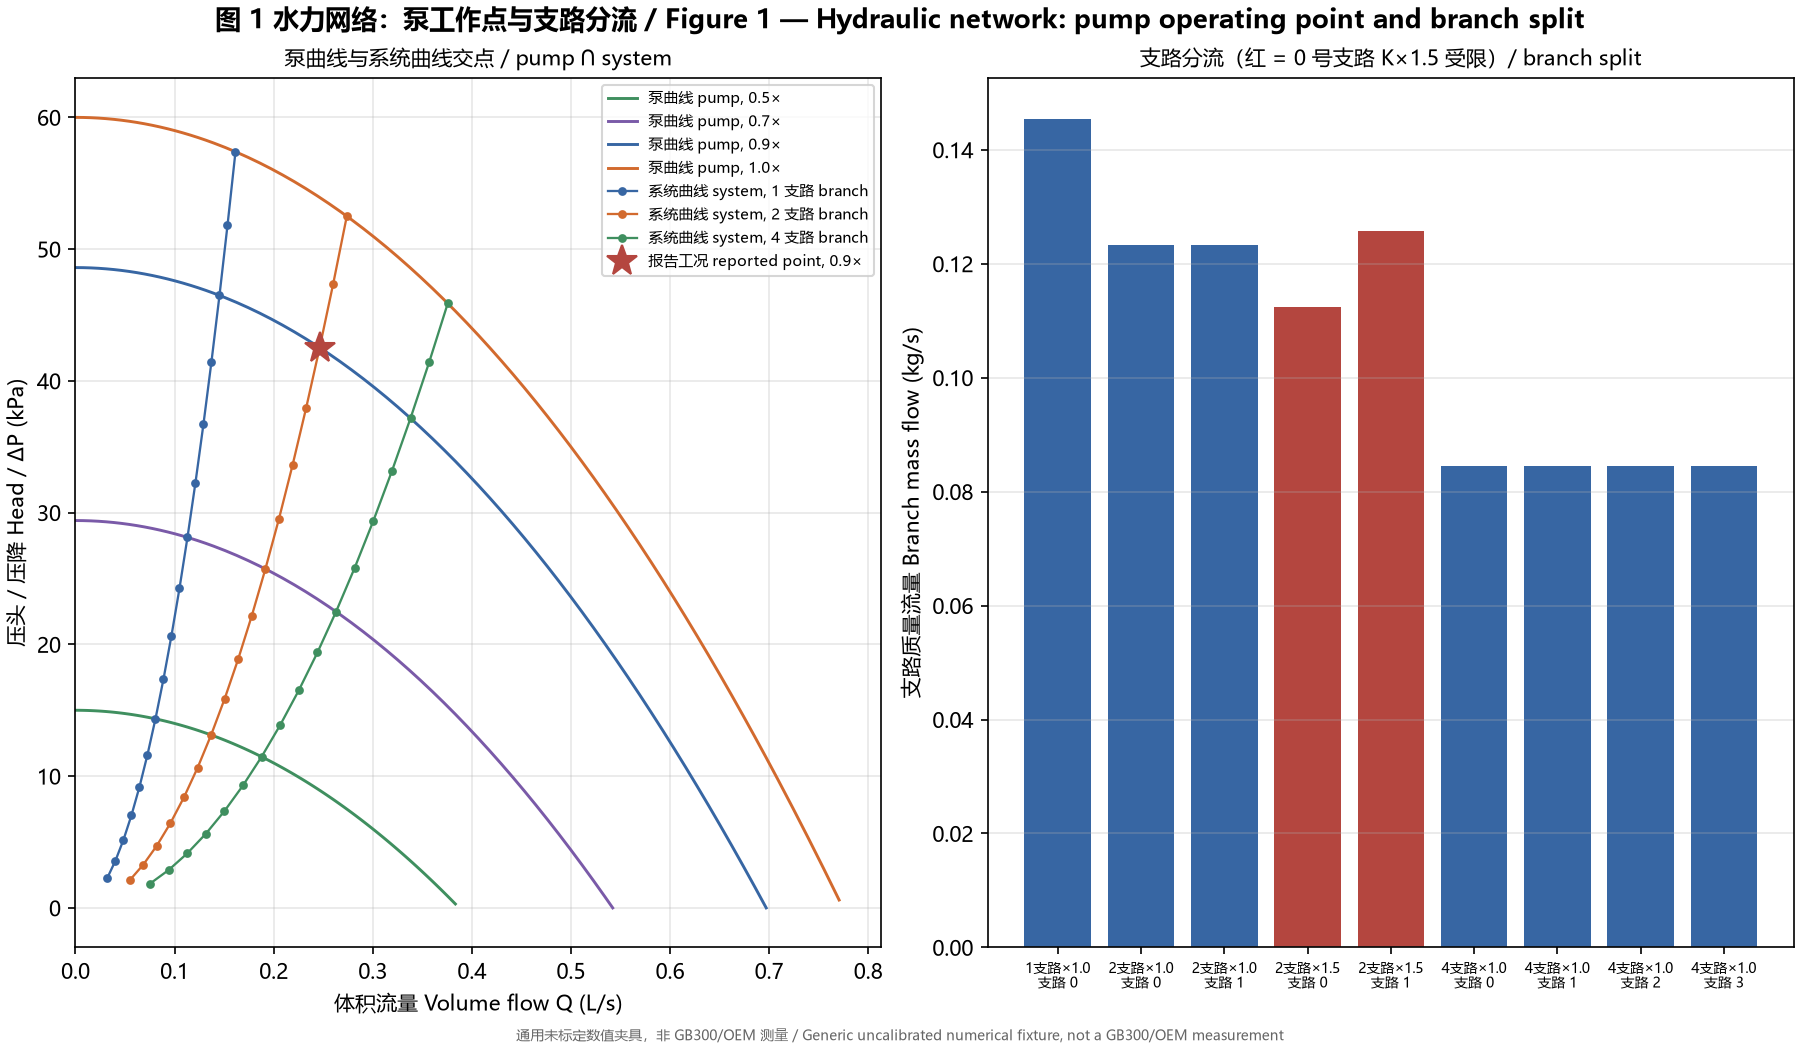
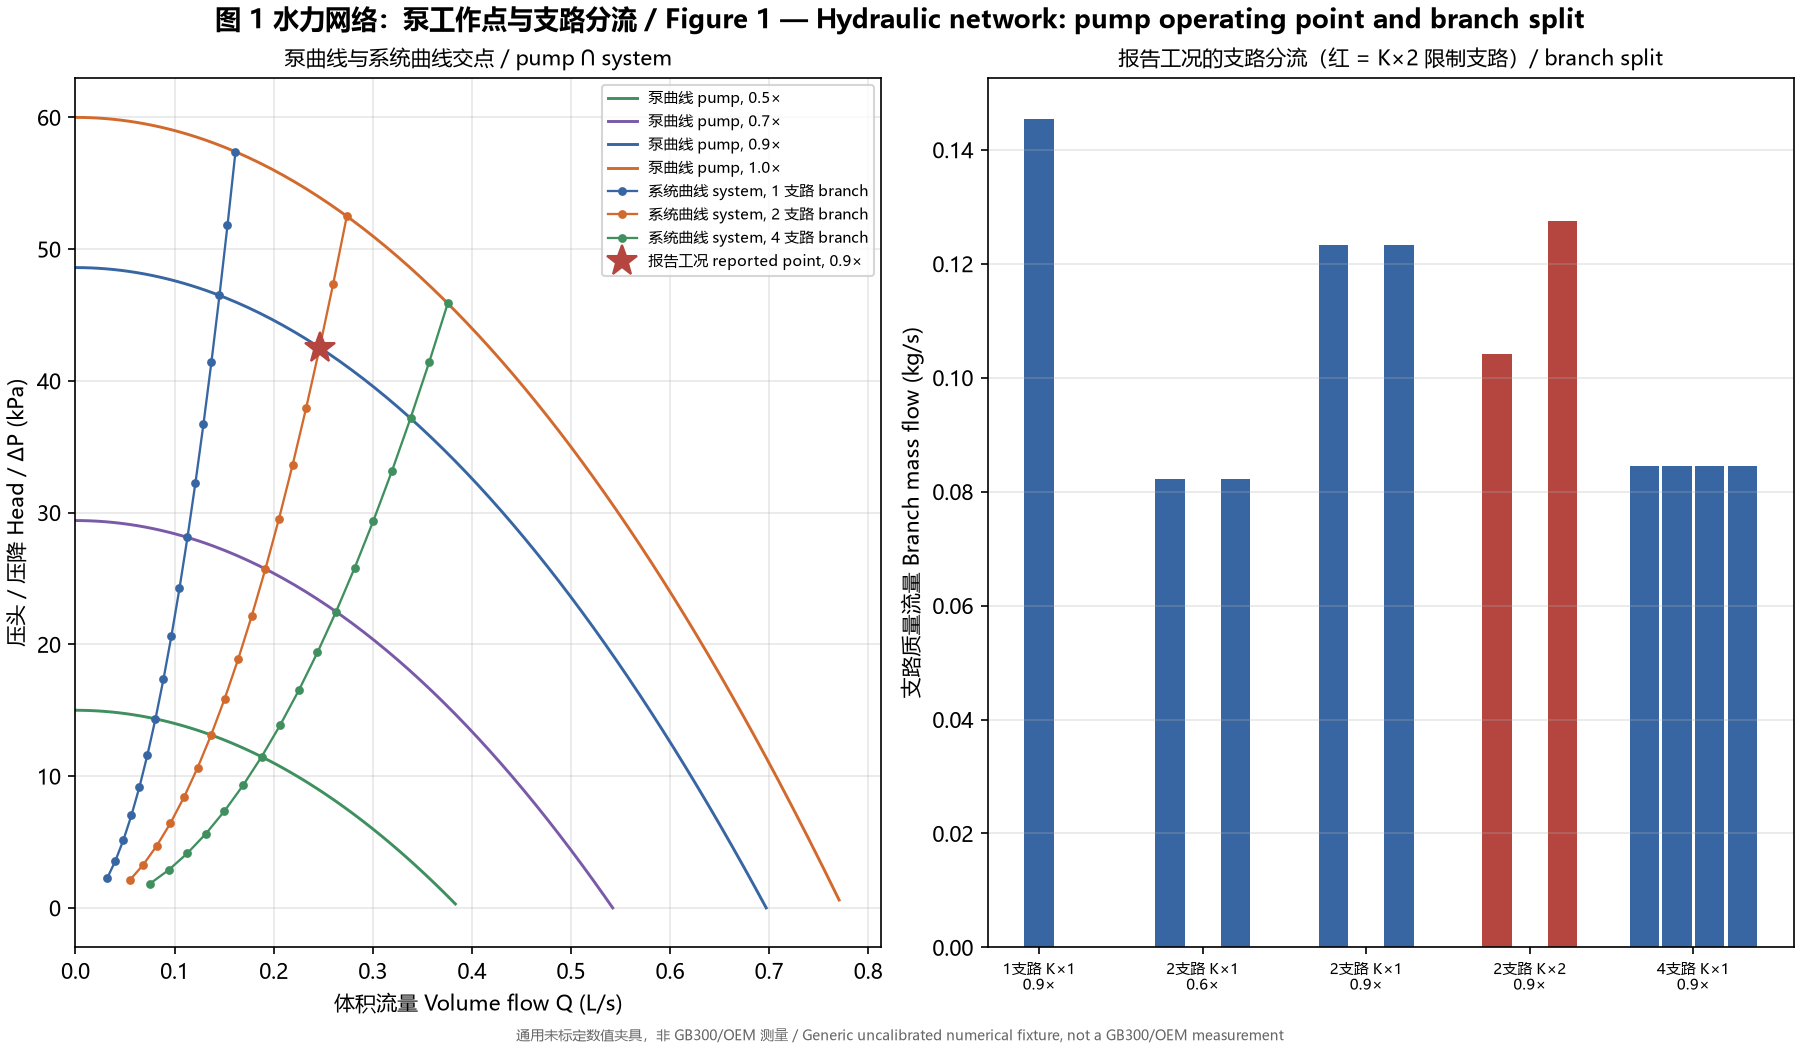
fix: correct figure captions and align figures 1 and 6 with the frozen tables
Three defects found on re-inspection, all of them claims that outran the
figure or the figure that outran the table:

- Figure 6's caption asserted "all four scenarios" while the figure only
  ran the two-branch case. It now reads the scenario set, tolerances and
  adjacent differences from phase4_validation.evidence() and covers all
  four scenarios, so it cannot drift from the dt table it illustrates.
  The two-branch peaks it recomputes are checked against that module and
  the figure aborts if they diverge.
- Figure 1's branch split plotted a 1.5x restriction and labeled the red
  bars as such, but the raw hydraulic table uses a 2x restriction and a
  different row set. The bars now mirror the five table rows in order.
  Mass flow is taken from the fixture density instead of the `* 1000`
  shorthand, which only agreed because density is 1000.
- Figure 4's caption invited a false comparison: the chart shows the
  single 2-branch dt=0.2 s run (max 2.19e-9 W per step) while the text
  quotes 1.31e-8 W, which is the global maximum over all twelve runs,
  from the 4-branch dt=0.05 s case. Both are correct; the scope is now
  stated. All three global residual figures were re-derived and hold.

Also documents that figure 3's flat return line is real: the local
coolant rise offsets the supply drift, leaving return_1 at 300.0018 K
against a 300 K start.

Changed region(s): [[0.56, 0.0914, 0.9644, 0.9448], [0.6222, 0.0305, 0.9333, 0.061]]

diff --git a/v0_2/examples/phase4_figures.py b/v0_2/examples/phase4_figures.py
@@ -22,10 +22,11 @@ from math import exp, fsum
 from pathlib import Path
 
 from v0_2.coolant.advection import AdvectiveLink, solve_implicit
+from v0_2.examples import phase4_validation
 from v0_2.hydraulics.pump import pump_energy
 from v0_2.hydraulics.solver import solve
 from v0_2.plant.fixtures import generic_fluid, physical_fixture, volume
-from v0_2.plant.phase4_harness import PlantEvent, convergence, run
+from v0_2.plant.phase4_harness import PlantEvent, run
 from v0_2.thermal.provenance import fixture_parameter as p
 
 # Same candidate order as the V0.1 plotting module, so both trees resolve CJK text
@@ -179,19 +180,28 @@ def hydraulic_figure(backend, output):
     left.legend(fontsize=7, loc="upper right")
     left.grid(alpha=0.3)
 
-    labels, values, colours = [], [], []
-    for count, multiplier in ((1, None), (2, None), (2, 1.5), (4, None)):
+    # Mirrors the five rows of the raw hydraulic table exactly, in the same order, so
+    # the bars and the table can be read against each other without a lookup. Mass
+    # flow is taken from the fixture density rather than the `* 1000` shorthand the
+    # table uses, so the two cannot silently agree for the wrong reason.
+    rows = ((1, None, 0.9), (2, None, 0.6), (2, None, 0.9), (2, 2.0, 0.9), (4, None, 0.9))
+    positions, heights, colours, ticks = [], [], [], []
+    for index, (count, multiplier, speed) in enumerate(rows):
         fixture, _ = physical_fixture(count, branch_multiplier=multiplier)
-        result = solve(fixture.hydraulic_graph, fixture.pump_curve, 0.9, 1000)
-        for index, flow in enumerate(result.branch_flows_m3_s):
-            labels.append(f"{count}支路×{multiplier or 1.0:.1f}\n支路 {index}")
-            values.append(flow * 1000)
+        result = solve(fixture.hydraulic_graph, fixture.pump_curve, speed, 1000)
+        density = fixture.heat_exchanger.secondary_fluid.density.value
+        flows = [flow * density for flow in result.branch_flows_m3_s]
+        width = 0.8 / len(flows)
+        for branch, flow in enumerate(flows):
+            positions.append(index + (branch - (len(flows) - 1) / 2) * width)
+            heights.append(flow)
             colours.append(RED if multiplier else BLUE)
-    right.bar(range(len(values)), values, color=colours)
-    right.set_xticks(range(len(values)))
-    right.set_xticklabels(labels, fontsize=6.5)
+        ticks.append(f"{count}支路 K×{multiplier or 1:g}\n{speed}×")
+    right.bar(positions, heights, width=width * 0.9, color=colours)
+    right.set_xticks(range(len(rows)))
+    right.set_xticklabels(ticks, fontsize=7)
     right.set_ylabel("支路质量流量 Branch mass flow (kg/s)")
-    right.set_title("支路分流（红 = 0 号支路 K×1.5 受限）/ branch split", fontsize=10)
+    right.set_title("报告工况的支路分流（红 = K×2 限制支路）/ branch split", fontsize=10)
     right.grid(alpha=0.3, axis="y")
     return finish(drawn, backend, output, "01_hydraulic_network.png")
 
@@ -404,40 +414,73 @@ def fws_disturbance_figure(backend, output):
 
 
 def dt_convergence_figure(backend, output):
-    """Figure 6: mesh refinement against the frozen tolerances."""
+    """Figure 6: mesh refinement across every scenario in the frozen dt table.
+
+    The scenario set, tolerances and adjacent differences are read straight from the
+    evidence module, so this figure cannot drift away from the table it illustrates.
+    """
     drawn, (left, right) = figure(
         backend,
-        "图 6 网格收敛 / Figure 6 — Mesh (dt) convergence on the coupled plant",
+        "图 6 网格收敛：四个场景 / "
+        "Figure 6 — Mesh (dt) convergence across all four scenarios",
     )
+    reported = phase4_validation.evidence()["convergence"]
+    names = list(reported)
+
     fixture, controls = physical_fixture(2, power_each=120)
     runs = [run(fixture, controls, 5_000_000_000, dt) for dt in DT_MESHES]
-    report = convergence(runs)
+    measured = [result.metrics()["peak_k"] for result in runs]
+    expected = [item["peak_k"] for item in reported["two_branch"]["metrics"]]
+    if any(abs(a - b) > 1e-9 for a, b in zip(measured, expected)):
+        raise SystemExit(
+            "the two-branch peaks plotted here disagree with phase4_validation, so the "
+            f"figure and the frozen table have diverged: {measured} vs {expected}"
+        )
     for result, dt, colour in zip(runs, DT_MESHES, (BLUE, ORANGE, GREEN)):
         left.plot(times(result), temperature(result, "b0:die"), color=colour,
                   linewidth=1.3, label=f"dt={dt / 1e9:g}s")
     left.set_xlabel("时间 Time (s)")
     left.set_ylabel("裸片温度 Die temperature (K)")
-    left.set_title(f"2 支路裸片轨迹，收敛 {report['status']} / die trajectory", fontsize=10)
-    left.legend(fontsize=8)
+    left.set_title("2 支路裸片轨迹 / two-branch die trajectory", fontsize=10)
+    left.legend(fontsize=8, loc="upper left")
     left.grid(alpha=0.3)
+    # On a 300-302.5 K axis the three meshes genuinely coincide, so the separation has
+    # to be stated as numbers instead of being read off the lines.
+    left.annotate(
+        "峰值 peak K at 0.2 / 0.1 / 0.05 s\n"
+        + " / ".join(f"{value:.6f}" for value in measured)
+        + "\n三套网格在此尺度上重合 / coincide at this scale",
+        xy=(0.97, 0.06),
+        xycoords="axes fraction",
+        ha="right",
+        fontsize=7.5,
+    )
 
-    keys = list(report["tolerances"])
-    differences = report["adjacent_differences"]
-    positions = list(range(len(keys)))
-    right.bar([i - 0.2 for i in positions],
-              [differences[0][k] / report["tolerances"][k] for k in keys],
-              width=0.38, color=BLUE, label="粗→中 coarse→medium")
-    right.bar([i + 0.2 for i in positions],
-              [differences[1][k] / report["tolerances"][k] for k in keys],
-              width=0.38, color=ORANGE, label="中→细 medium→fine")
+    # Most metrics -- flow, pressure, pump energy -- have exactly zero mesh error here
+    # because the hydraulic map and held speed are static within each interval, so the
+    # per-metric view would be dominated by zeros. Collapsing each adjacent pair to its
+    # worst metric-to-tolerance ratio keeps all four scenarios on one readable axis.
+    positions = list(range(len(names)))
+    for offset, index, colour, label in (
+        (-0.2, 0, BLUE, "粗→中 coarse→medium"),
+        (0.2, 1, ORANGE, "中→细 medium→fine"),
+    ):
+        ratios = []
+        for name in names:
+            tolerances = reported[name]["tolerances"]
+            differences = reported[name]["adjacent_differences"][index]
+            ratios.append(max(differences[key] / tolerances[key] for key in tolerances))
+        bars = right.bar([place + offset for place in positions], ratios, width=0.38,
+                         color=colour, label=label)
+        right.bar_label(bars, fmt="%.3f", fontsize=6.5, padding=2)
     right.axhline(1.0, color=RED, linestyle="--", linewidth=1.2, label="冻结容差 tolerance")
-    right.set_yscale("log")
     right.set_xticks(positions)
-    right.set_xticklabels(keys, rotation=35, ha="right", fontsize=6.5)
-    right.set_ylabel("差异 ÷ 容差 difference ÷ tolerance")
+    right.set_xticklabels(names, rotation=20, ha="right", fontsize=7)
+    right.set_ylim(0.0, 1.05)
+    right.set_ylabel("最差 差异 ÷ 容差 worst difference ÷ tolerance")
     right.set_title("全部低于 1 = 通过 / all below 1 = pass", fontsize=10)
-    right.legend(fontsize=7.5)
-    right.grid(alpha=0.3, axis="y", which="both")
+    right.legend(fontsize=7, loc="upper left")
+    right.grid(alpha=0.3, axis="y")
     return finish(drawn, backend, output, "06_dt_convergence.png")
 
 

diff --git a/PHASE4_PHYSICAL_PLANT_REPORT.md b/PHASE4_PHYSICAL_PLANT_REPORT.md
@@ -24,7 +24,7 @@ Generic fixture uses `H0=60,000 Pa`, `Kpump=1e11 Pa/(m³/s)²`, two equal branch
 
 ![图 1 水力网络 / Figure 1 hydraulic network](figures/phase4/01_hydraulic_network.png)
 
-*图 1 泵曲线与系统曲线在声明图线上直接求交，星号为 2 支路 0.9× 的报告工作点；右图为支路分流，红色为 K×1.5 受限支路。Figure 1 — the pump curve intersects the series-plus-parallel system curve directly; the star is the reported 2-branch 0.9× operating point, and the red bars are the K×1.5 restricted branch.*
+*图 1 左：泵曲线与系统曲线在声明图线上直接求交，星号为 2 支路 0.9× 的报告工作点；右：上表五个工况的支路分流按同一顺序逐行对应，红色为 K×2 限制支路，受限制支路流量更低、与它并联的支路更高。Figure 1 — left: the pump curve intersects the series-plus-parallel system curve directly, with the star at the reported 2-branch 0.9× point; right: branch split for the five rows of the table above, in the same order, where the red K×2 restricted branch carries less flow and its parallel partner more.*
 
 | Branches / branch-0 K multiplier | Speed | Total kg/s | Pump ΔP Pa | Branch kg/s | Branch ΔP Pa | Solver residual norm | Max node mass kg/s | Max pressure Pa | Pump-curve Pa |
 |---|---:|---:|---:|---|---:|---:|---:|---:|---:|
@@ -78,7 +78,7 @@ For the equal two-branch 5 s run at 0.2 s mesh, supply manifold **in** is 0.2464
 
 ![图 3 耦合温度链 / Figure 3 coupled temperature chain](figures/phase4/03_temperature_chain.png)
 
-*图 3 左：各节点相对 CDU 供液的温升，裸片承担几乎全部梯度；右：绝对温度，冷 FWS 使供液在 5 s 内下移约 0.4 K。Figure 3 — left: the chain as rise above the CDU supply, where the die carries nearly the whole gradient; right: absolute temperatures, where the cold FWS pulls the supply down about 0.4 K over 5 s.*
+*图 3 左：各节点相对 CDU 供液的温升，裸片承担几乎全部梯度（2.801 K，下一级仅 0.677 K）；右：绝对温度，冷 FWS 使供液在 5 s 内下移 0.413 K 至 299.587 K。回液看起来持平是因为局部冷却液的温升几乎抵消了供液下移：`return_1` 末态 300.0018 K，仅比初始 300 K 高 0.002 K。Figure 3 — left: the chain as rise above the CDU supply, where the die carries nearly the whole gradient (2.801 K against 0.677 K at the next level); right: absolute temperatures, where the cold FWS pulls the supply down 0.413 K to 299.587 K over 5 s. The return looks flat because the local coolant rise almost exactly offsets the supply drift: `return_1` ends at 300.0018 K, just 0.002 K above its 300 K start.*
 
 The full-loop energy equation is `ΔE = E_IT + E_pump_to_liquid − E_air − E_HX`; pump electrical consumption is separately reported, not added in full a second time. Values below are the two-branch 5 s run at dt 0.2 s:
 
@@ -90,7 +90,7 @@ The maximum signed full-loop residual magnitude among the twelve qualified runs 
 
 ![图 4 全回路能量账本 / Figure 4 full-loop energy ledger](figures/phase4/04_energy_ledger.png)
 
-*图 4 累积能量进出与储能变化；负储能变化对应冷 FWS 瞬态中 HX 导出超过 IT 加泵热，账本残差仍在声明容差内。Figure 4 — cumulative energy in and out against stored change; the negative stored change is the cold-FWS transient where HX export exceeds IT plus pump heat, and the ledger residual stays inside its declared tolerance.*
+*图 4 累积能量进出与储能变化；负储能变化对应冷 FWS 瞬态中 HX 导出超过 IT 加泵热。本图为 2 支路 dt=0.2 s 单次运行（25 步），其单步残差率最大 2.19e-9 W；上文 1.31e-8 W 是十二组运行的全局最大值，出自 4 支路 dt=0.05 s，两者范围不同而非不一致。Figure 4 — cumulative energy in and out against stored change; the negative stored change is the cold-FWS transient where HX export exceeds IT plus pump heat. This is the single 2-branch dt=0.2 s run (25 steps), whose largest per-step residual rate is 2.19e-9 W; the 1.31e-8 W quoted above is the global maximum over all twelve runs, from the 4-branch dt=0.05 s case. The two differ in scope, not in value.*
 
 ## dt refinement and validity
 
@@ -107,7 +107,7 @@ All adjacent temperature, enthalpy, HX and storage errors decrease toward the fi
 
 ![图 6 dt 网格收敛 / Figure 6 dt mesh convergence](figures/phase4/06_dt_convergence.png)
 
-*图 6 峰值温度与相邻网格误差随 dt 细化；四个场景的相邻误差逐级下降。Figure 6 — peak temperature and adjacent-mesh error under dt refinement; adjacent error falls at each step across all four scenarios.*
+*图 6 左：2 支路裸片轨迹在三套网格下重合，峰值分别为 302.387748 / 302.395106 / 302.398817 K，因此差异必须以数字而非曲线间距表述；右：四个场景各自的相邻差异与冻结容差之比（取十个受检指标中最差者），全部远低于 1。流量、压力与泵能量的网格差异在此恒为零，因为每个区间内水力映射与保持的转速不变。右图使用的容差与差异直接取自证据模块，与本图重算的峰值逐位校验，不一致即报错。Figure 6 — left: the two-branch die trajectory coincides across the three meshes, peaking at 302.387748 / 302.395106 / 302.398817 K, so the separation has to be stated as numbers rather than read off the lines; right: each scenario's worst metric-to-tolerance ratio across the ten checked metrics, all far below 1. Flow, pressure and pump energy have exactly zero mesh error here because the hydraulic map and held speed are static within each interval. The tolerances and differences are read from the evidence module, and the peaks recomputed here are checked against it so the two cannot diverge silently.*
 
 Invalid-domain tests cover bath/advection, FIFO/finite-volume, pump work duplicate, invalid/zero/negative resistance, out-of-range pump speed/flow, negative pump map, unsupported reverse advection, unbalanced cell mass, duplicate storage owner/flux, missing endpoints, HX capacity/flow, primary/secondary identity and transactional failed steps. There is no clipping or fabricated fallback solution. Unsupported pressure/FWS/thermal operating domains are rejected under the declared generic ranges; this is not validation of real hardware limits.
 
